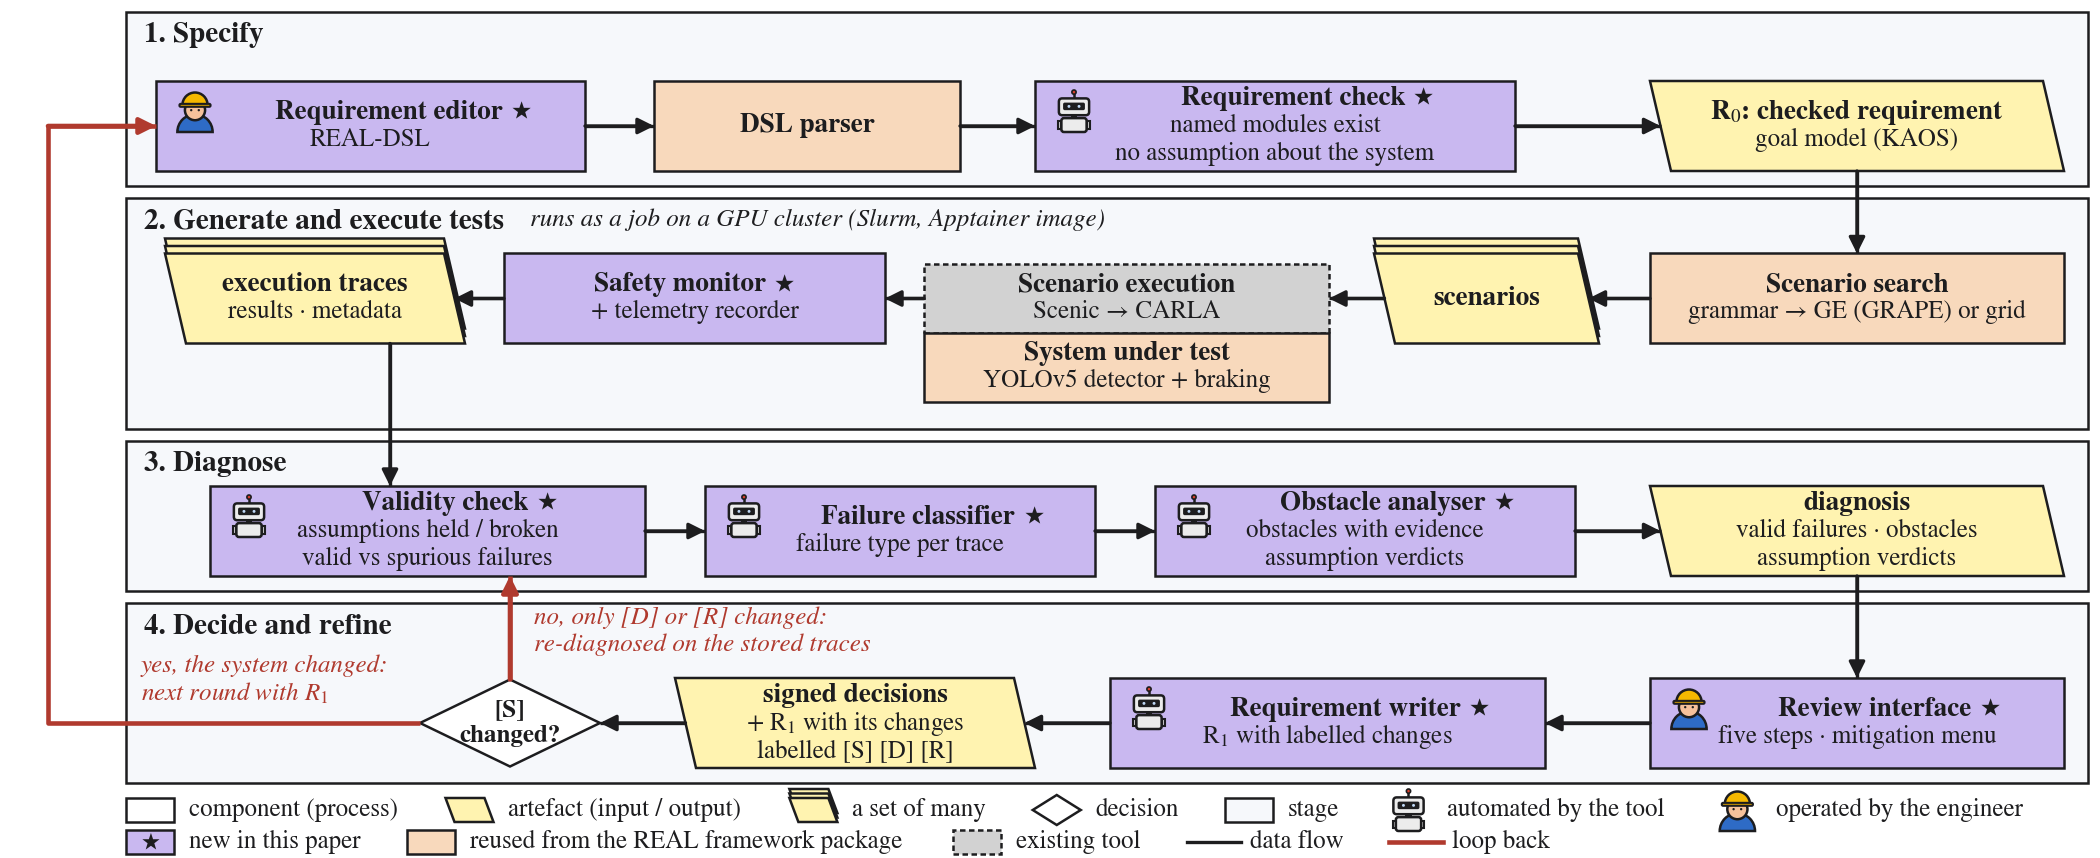
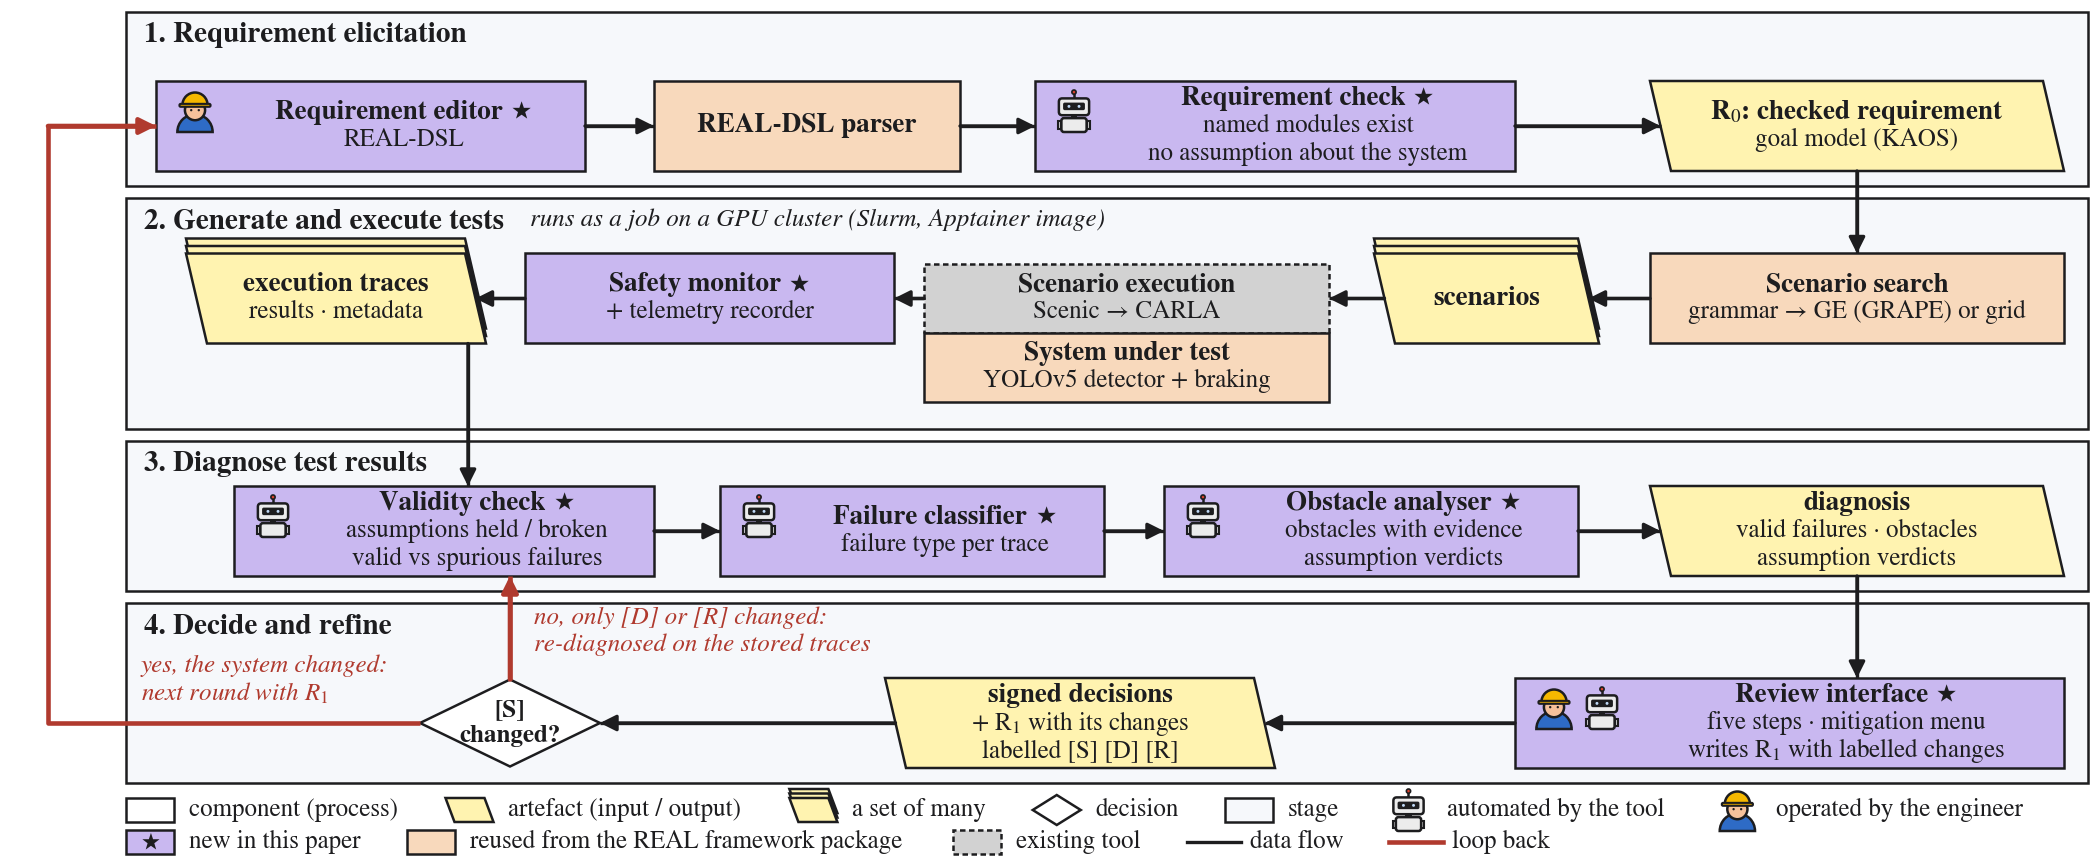
Fig. 1 v2: stage names (Requirement elicitation, Diagnose test results), REAL-DSL parser, writer merged into the review interface (manual with automatic support); Sec. III aligned

diff --git a/docs/paper/latex/figures/make_fig1_v2.py b/docs/paper/latex/figures/make_fig1_v2.py
@@ -124,23 +124,26 @@ def arrow(points, color=INK, lw=0.8, ls="-", z=6, head_len=0.32):
 def component(x, y, w, h, kind, actor, title, lines=()):
     """A process: rectangle. kind: 'new' (violet, star), 'framework' (orange),
     'tool' (grey, dashed). actor: 'engineer' where a person operates it, 'robot'
-    where the tool automates work the framework paper left to people, else None."""
+    where the tool automates work the framework paper left to people, both where a
+    manual step has automatic support, else None."""
     fill = {"new": NEW, "framework": FRAMEWORK, "tool": TOOL}[kind]
     ax.add_patch(Rectangle((x, y), w, h, fc=fill, ec=INK, lw=0.6,
                            ls=DASHED if kind == "tool" else "-", zorder=3))
     n = 1 + len(lines)
     top = y + h / 2 + (n - 1) / 2 * STEP
-    slot = ICON_SLOT if actor else 0.04          # an icon only where a person acts
-    if actor:                                    # same badge position in every box:
-        icon(actor, x + 0.13, y + h - 0.10)      # 0.13 in from the left, 0.10 in from the top
+    actors = [actor] if isinstance(actor, str) else list(actor or [])
+    slot = ICON_SLOT + 0.16 * (len(actors) - 1) if actors else 0.04
+    for k, a in enumerate(actors):               # same badge position in every box:
+        icon(a, x + 0.13 + 0.16 * k, y + h - 0.10)   # 0.13 in from the left, 0.10 in from the top
     star = kind == "new"
     cx = x + slot + (w - slot - 0.04) / 2 - (0.05 if star else 0)
     t = text(cx, top, title, size=T_BOX, weight="bold", ha="center", va="center",
              fit=w - slot - 0.04 - (0.11 if star else 0))
     if star:
         star_after(t, T_BOX)
-    for k, line in enumerate(lines):
-        text(x + w / 2, top - (k + 1) * STEP, line, ha="center", va="center", fit=w - 0.08)
+    for k, line in enumerate(lines):           # the whole text sits right of the badges
+        text(x + slot + (w - slot - 0.04) / 2, top - (k + 1) * STEP, line, ha="center", va="center",
+             fit=w - slot - 0.08)
 
 
 def artefact(x, y, w, h, title, lines=(), stack=False):
@@ -180,15 +183,15 @@ FX0, FX1 = 0.42, 6.96
 BH = 0.30
 
 # ------------------------------------------------------------------ stage frames (bands)
-frame(2.24, 2.82, "1. Specify")
+frame(2.24, 2.82, "1. Requirement elicitation")
 frame(1.43, 2.20, "2. Generate and execute tests", "runs as a job on a GPU cluster (Slurm, Apptainer image)")
-frame(0.89, 1.39, "3. Diagnose")
+frame(0.89, 1.39, "3. Diagnose test results")
 frame(0.25, 0.85, "4. Decide and refine")
 
 # ---- band 1, left to right -------------------------------------------------
 y, yc = 2.29, 2.44
 component(0.52, y, 1.43, BH, "new", "engineer", "Requirement editor", ["REAL-DSL"])
-component(2.18, y, 1.02, BH, "framework", None, "DSL parser")
+component(2.18, y, 1.02, BH, "framework", None, "REAL-DSL parser")
 component(3.45, y, 1.60, BH, "new", "robot", "Requirement check",
           ["named modules exist", "no assumption about the system"])
 artefact(5.50, y, 1.38, BH, r"R$_0$: checked requirement", ["goal model (KAOS)"])
@@ -202,37 +205,36 @@ component(5.50, y, 1.38, BH, "framework", None, "Scenario search", ["grammar →
 artefact(4.58, y, 0.75, BH, "scenarios", stack=True)
 component(3.08, 1.75, 1.35, 0.23, "tool", None, "Scenario execution", ["Scenic → CARLA"])
 component(3.08, 1.52, 1.35, 0.23, "framework", None, "System under test", ["YOLOv5 detector + braking"])
-component(1.68, y, 1.27, BH, "new", None, "Safety monitor", ["+ telemetry recorder"])
-artefact(0.55, y, 1.00, BH, "execution traces", ["results · metadata"], stack=True)
+component(1.75, y, 1.23, BH, "new", None, "Safety monitor", ["+ telemetry recorder"])
+artefact(0.62, y, 1.00, BH, "execution traces", ["results · metadata"], stack=True)
 arrow([(5.50, yc), (5.33 - SKEW / 2, yc)])
 arrow([(4.58 + SKEW / 2, yc), (4.43, yc)])
-arrow([(3.08, yc), (2.95, yc)])
-arrow([(1.68, yc), (1.55 - SKEW / 2, yc)])
+arrow([(3.08, yc), (2.98, yc)])
+arrow([(1.75, yc), (1.62 - SKEW / 2, yc)])
 arrow([(6.19, 2.29), (6.19, y + BH)])              # R0 feeds the scenario search
 
 # ---- band 3, left to right -------------------------------------------------
 y, yc = 0.94, 1.09
-component(0.70, y, 1.45, BH, "new", "robot", "Validity check",
+component(0.78, y, 1.40, BH, "new", "robot", "Validity check",
           ["assumptions held / broken", "valid vs spurious failures"])
-component(2.35, y, 1.30, BH, "new", "robot", "Failure classifier", ["failure type per trace"])
-component(3.85, y, 1.40, BH, "new", "robot", "Obstacle analyser",
+component(2.40, y, 1.28, BH, "new", "robot", "Failure classifier", ["failure type per trace"])
+component(3.88, y, 1.38, BH, "new", "robot", "Obstacle analyser",
           ["obstacles with evidence", "assumption verdicts"])
 artefact(5.50, y, 1.38, BH, "diagnosis", ["valid failures · obstacles", "assumption verdicts"])
-arrow([(2.15, yc), (2.35, yc)])
-arrow([(3.65, yc), (3.85, yc)])
-arrow([(5.25, yc), (5.50 + SKEW / 2, yc)])
-arrow([(1.30, 1.715), (1.30, y + BH)])             # the traces feed the validity check
+arrow([(2.18, yc), (2.40, yc)])
+arrow([(3.68, yc), (3.88, yc)])
+arrow([(5.26, yc), (5.50 + SKEW / 2, yc)])
+arrow([(1.56, 1.715), (1.56, y + BH)])             # the traces feed the validity check
 
 # ---- band 4, right to left -------------------------------------------------
 y, yc = 0.30, 0.45
-component(5.50, y, 1.38, BH, "new", "engineer", "Review interface", ["five steps · mitigation menu"])
-component(3.70, y, 1.45, BH, "new", "robot", "Requirement writer", [r"R$_1$ with labelled changes"])
-artefact(2.25, y, 1.20, BH, "signed decisions", [r"+ R$_1$ with its changes", "labelled [S] [D] [R]"])
+component(5.05, y, 1.83, BH, "new", ("engineer", "robot"), "Review interface",
+          ["five steps \u00b7 mitigation menu", r"writes R$_1$ with labelled changes"])
+artefact(2.95, y, 1.30, BH, "signed decisions", [r"+ R$_1$ with its changes", "labelled [S] [D] [R]"])
 DX, DY, DHW, DHH = 1.70, yc, 0.30, 0.145
 decision(DX, DY, DHW, DHH, ["[S]", "changed?"])
-arrow([(5.50, yc), (5.15, yc)])
-arrow([(3.70, yc), (3.45 - SKEW / 2, yc)])
-arrow([(2.25 + SKEW / 2, yc), (DX + DHW, yc)])
+arrow([(5.05, yc), (4.25 - SKEW / 2, yc)])
+arrow([(2.95 + SKEW / 2, yc), (DX + DHW, yc)])
 arrow([(6.19, 0.94), (6.19, y + BH)])              # the diagnosis opens in the review interface
 
 # ---- the two branches of the decision (red loops) --------------------------

diff --git a/docs/paper/latex/sections_II_V.tex b/docs/paper/latex/sections_II_V.tex
@@ -32,7 +32,7 @@ everything else runs automatically, and each computed result is shown with
 the evidence behind it. The stages exchange four artefacts: the checked
 requirement, the execution traces, the diagnosis, and the signed decisions.
 
-\subsection{Stage 1: Specify}
+\subsection{Stage 1: Requirement Elicitation}
 \label{sec:specify}
 Requirements are written in the REAL DSL~\cite{real2026}, which
 \toolname{} extends with explicit slots for the three parts of the entailment:
@@ -47,7 +47,7 @@ measure, or as free text that is recorded but not checked;
 \end{itemize}
 The \emph{requirement editor} presents the requirement as text with gaps.
 Bounded choices are menus read from the code: the modules the executor
-implements, the measurable quantities, the operators. The \emph{DSL parser}
+implements, the measurable quantities, the operators. The \emph{REAL-DSL parser}
 checks every edit and marks the line it rejects, and the requirement can be
 viewed as a goal tree or a KAOS diagram. The \emph{requirement check} then
 applies two refusals that keep the entailment honest. An assumption about the
@@ -75,7 +75,7 @@ of the code is compared with the local one. The run panel follows the job,
 shows partial results as simulations finish, and retrieves the execution
 traces when it ends.
 
-\subsection{Stage 3: Diagnose}
+\subsection{Stage 3: Diagnose Test Results}
 \label{sec:diagnose}
 The diagnosis reads the execution traces, never the simulator. The outcome
 of each run is computed from its trace under a path-aware safety rule: the
@@ -118,9 +118,8 @@ In the \emph{review interface} the engineer decides each obstacle:
 in their own words; chooses, for each accepted obstacle, a mitigation from a
 menu spanning the data, model, system and requirement layers; and rules on
 each assumption: keep, tighten, loosen, drop, or add one. The tool's verdicts
-are suggestions only; nothing is decided without the engineer. From the
-decisions, the \emph{requirement writer} produces $R_1$ next to $R_0$ with
-every change labelled by the part of the entailment it touches: [S] the
+are suggestions only; nothing is decided without the engineer. From the decisions, the interface writes $R_1$ next to $R_0$ with every
+change labelled by the part of the entailment it touches: [S] the
 system, [D] an assumption, [R] the requirement, or [T] the test itself (a
 defect in the scene, which is fixed rather than blamed on the system). The
 engineer signs, which records the signed decisions: each verdict, reason and

diff --git a/docs/paper/latex/figures/architecture_diagram_v2.md b/docs/paper/latex/figures/architecture_diagram_v2.md
@@ -220,3 +220,12 @@ detector and controller run in the loop.
   by the script as vector patches (owner's choice, 2026-10-20, over Flaticon
   icons that would have needed a credit line). No licence, no raster: the
   PDF is fully vector.
+
+## 9. Revision of 2026-10-21 (owner)
+
+- Stage titles: *1. Requirement elicitation*, *3. Diagnose test results*.
+- *DSL parser* → *REAL-DSL parser*.
+- The *Requirement writer* box is removed; the *Review interface* carries both
+  glyphs (engineer and robot): a manual step with automatic support, and its
+  second line says it writes R₁ with labelled changes. Band 4 is now Review
+  interface → signed decisions → decision. Sec. III-D wording follows.
